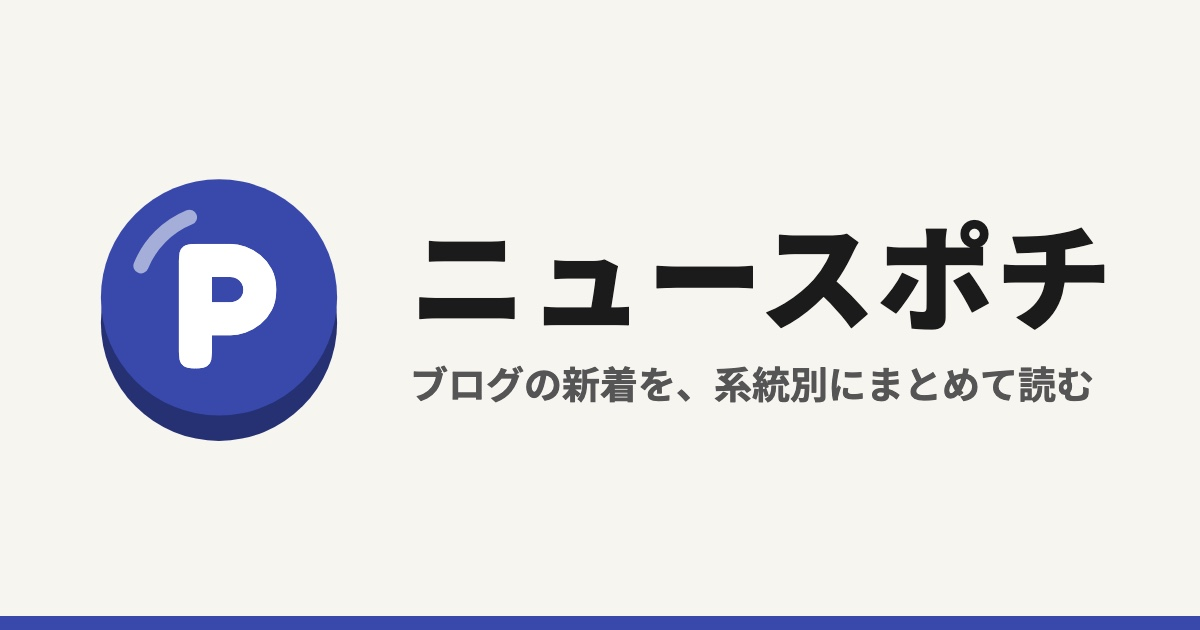
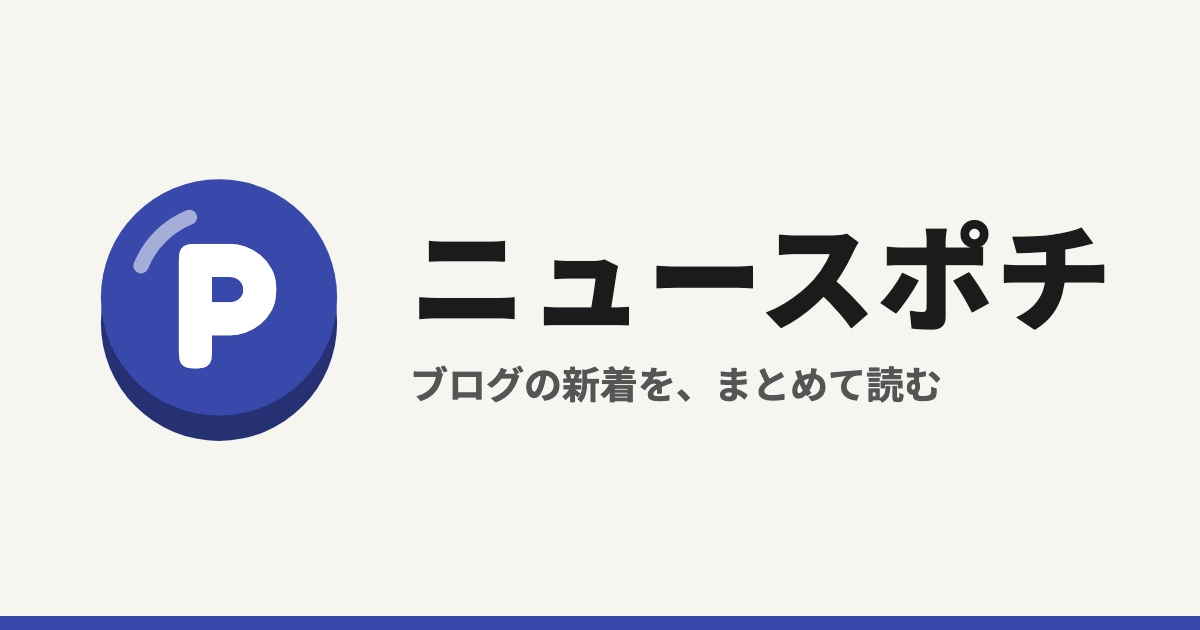
タグラインから「系統別に」を外す (#9)
- タグライン・title・og:title を「ブログの新着を、まとめて読む」に
- meta description / og:description の「系統別に」も外す
- OGP画像を新しいタグラインで作り直す（pochi-branding の sites.py も更新）

Changed region(s): [[0.5858, 0.573, 0.925, 0.6635]]

diff --git a/docs/index.html b/docs/index.html
@@ -5,14 +5,14 @@
 <meta name="viewport" content="width=device-width, initial-scale=1">
 <script async src="https://www.googletagmanager.com/gtag/js?id=G-H1ZRP6WHQ3"></script>
 <script>window.dataLayer=window.dataLayer||[];function gtag(){dataLayer.push(arguments);}gtag('js',new Date());gtag('config','G-H1ZRP6WHQ3');</script>
-<title>ニュースポチ｜ブログの新着を、系統別にまとめて読む</title>
-<meta name="description" content="ニュース系ブログのRSSを系統別にまとめて読めるサイト。Apple系・飲食レビュー系のブログの新着を、新しい順の1本のタイムラインで。読みたいブログだけを購読リストで選べます。">
+<title>ニュースポチ｜ブログの新着を、まとめて読む</title>
+<meta name="description" content="ニュース系ブログのRSSをまとめて読めるサイト。Apple系・飲食レビュー系のブログの新着を、新しい順の1本のタイムラインで。読みたいブログだけを購読リストで選べます。">
 <link rel="canonical" href="https://news.netaful.jp/">
 <link rel="icon" type="image/png" sizes="96x96" href="/assets/favicon.png">
 <link rel="apple-touch-icon" href="/assets/apple-touch-icon.png">
 <meta property="og:type" content="website">
-<meta property="og:title" content="ニュースポチ｜ブログの新着を、系統別にまとめて読む">
-<meta property="og:description" content="ニュース系ブログのRSSを系統別にまとめて読めるサイト。Apple系・飲食レビュー系のブログの新着を、新しい順の1本のタイムラインで。読みたいブログだけを購読リストで選べます。">
+<meta property="og:title" content="ニュースポチ｜ブログの新着を、まとめて読む">
+<meta property="og:description" content="ニュース系ブログのRSSをまとめて読めるサイト。Apple系・飲食レビュー系のブログの新着を、新しい順の1本のタイムラインで。読みたいブログだけを購読リストで選べます。">
 <meta property="og:url" content="https://news.netaful.jp/">
 <meta property="og:site_name" content="ニュースポチ">
 <meta property="og:locale" content="ja_JP">
@@ -26,7 +26,7 @@
 <body>
 <header class="site-header">
 <h1 class="site-title"><a href="/"><img src="/assets/logo.png" alt="" width="44" height="44">ニュースポチ</a></h1>
-<p class="tagline">ブログの新着を、系統別にまとめて読む</p>
+<p class="tagline">ブログの新着を、まとめて読む</p>
 </header>
 <main>
 <div class="np-tabs" role="tablist" aria-label="表示の切り替え">

diff --git a/docs/404.html b/docs/404.html
@@ -26,7 +26,7 @@
 <body>
 <header class="site-header">
 <div class="site-title"><a href="/"><img src="/assets/logo.png" alt="" width="44" height="44">ニュースポチ</a></div>
-<p class="tagline">ブログの新着を、系統別にまとめて読む</p>
+<p class="tagline">ブログの新着を、まとめて読む</p>
 </header>
 <main>
 <h2>ページが見つかりません</h2>

diff --git a/build.py b/build.py
@@ -11,10 +11,10 @@ from pathlib import Path
 ROOT = Path(__file__).parent
 DOCS = ROOT / "docs"
 
-TITLE = "ニュースポチ｜ブログの新着を、系統別にまとめて読む"
+TITLE = "ニュースポチ｜ブログの新着を、まとめて読む"
 NAME = "ニュースポチ"
-TAGLINE = "ブログの新着を、系統別にまとめて読む"
-DESC = ("ニュース系ブログのRSSを系統別にまとめて読めるサイト。Apple系・飲食レビュー系のブログの新着を、"
+TAGLINE = "ブログの新着を、まとめて読む"
+DESC = ("ニュース系ブログのRSSをまとめて読めるサイト。Apple系・飲食レビュー系のブログの新着を、"
         "新しい順の1本のタイムラインで。読みたいブログだけを購読リストで選べます。")
 DOMAIN = "news.netaful.jp"
 

diff --git a/tests/test_build.py b/tests/test_build.py
@@ -47,7 +47,7 @@ class BuildTest(unittest.TestCase):
 
     def test_head(self):
         idx, _ = render()
-        self.assertIn("<title>ニュースポチ｜ブログの新着を、系統別にまとめて読む</title>", idx)
+        self.assertIn("<title>ニュースポチ｜ブログの新着を、まとめて読む</title>", idx)
         self.assertIn('<link rel="canonical" href="https://news.netaful.jp/">', idx)
         for s in ('property="og:image" content="https://news.netaful.jp/assets/ogp.jpg"', "/assets/favicon.png",
                   "/assets/apple-touch-icon.png", 'name="description"'):
